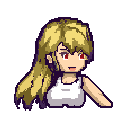
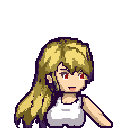
Added Fade in / Fade Out

diff --git a/Alligrater/Stage/Story/StoryStage.js b/Alligrater/Stage/Story/StoryStage.js
@@ -28,6 +28,10 @@ class StoryStage extends GenericStage{
 
         this.inputTime = 0;
         this.disableInputTime = 0;
+
+        this.fadeInOutVal = 0.00;
+        this.isFadingComplete = true;
+
     }
 
     setDisableInput(time){
@@ -37,6 +41,8 @@ class StoryStage extends GenericStage{
 
     setup(){
         this.dialogueBox = new DialogueBox(this.stage,CANVAS_WIDTH * 0.95, CANVAS_HEIGHT * 0.20, CANVAS_WIDTH/2, CANVAS_HEIGHT*0.85);
+        this.blackScreen = createBackgroundOnStage(this.stage, "Resources/Images/UI/PitchBlack.png");//We will use this later.
+        this.blackScreen.alpha = 0;
     }
 
     update(delta){
@@ -69,6 +75,23 @@ class StoryStage extends GenericStage{
         else{
             this.screenUnShake();
         }
+
+        if(!this.isFadingComplete){
+            //Keep this on top
+            this.stage.removeChild(this.blackScreen);
+            this.stage.addChild(this.blackScreen);
+
+            //Change opacity:
+            this.blackScreen.alpha += this.fadeInOutVal;
+            if(this.blackScreen.alpha > 1 || this.blackScreen.alpha < 0){
+                //Stop:
+                this.fadeInOutVal = 0;
+                this.isFadingComplete = true;
+            }
+
+
+        }
+
         //Unshake
         //this.screenUnShake();
     }
@@ -162,6 +185,12 @@ class StoryStage extends GenericStage{
 
     }
 
+    //+ = fade out
+    //- = fade in.
+    fadeBackground(speed){
+        this.isFadingComplete = false;
+        this.fadeInOutVal = speed;
+    }
+
 
 }
-

diff --git a/Alligrater/StorySubGame/DialogBox/DialogueBox.js b/Alligrater/StorySubGame/DialogBox/DialogueBox.js
@@ -123,9 +123,10 @@ class DialogueBox{
     setHeadFigure(path){
         this.clearHeadFigure();
         if(path != ""){
-            this.headfigure = createSpriteOnStage(this.stage,this.x - this.width/2.4, this.y - this.height/2.5, path)
+            this.headfigure = createSpriteOnStage(this.stage,this.x - this.width/2.4, this.y - this.height/1.5, path)
             scaleSprite(this.headfigure, 1.5*GLOBAL_SPRITE_SCALE)
         }
+        this.message.x = this.x - this.width/3.1;
 
     }
 
@@ -134,6 +135,8 @@ class DialogueBox{
             this.stage.removeChild(this.headfigure);
             this.headfigure = null;
         }
+        //Move the text to the left.
+        this.message.x = this.x - this.width/2.5;
     }
 
     showName(string){

diff --git a/Alligrater/SpriteManagement.js b/Alligrater/SpriteManagement.js
@@ -46,12 +46,11 @@ function loadSprites(){
         .add("Resources/Images/Characters/Master/master.json")
         .add("Resources/Images/Characters/Developer/developer.json")
         .add("Resources/Images/UI/DialogueBox_New.png")
-        //.add("Resources/Images/UI/Fonts/fonts.json")
-        .add("Resources/Images/UI/NewFonts/fonts.json")
         .add("Resources/Images/Characters/HeadFigure/Journalist.png")
         .add("Resources/Images/Characters/HeadFigure/Master.png")
         .add("Resources/Images/Characters/HeadFigure/Mechanic.png")
         .add("Resources/Images/Characters/HeadFigure/Robo.png")
+        .add("Resources/Images/UI/PitchBlack.png")
 
         .load(setupStage);
 }

diff --git a/Alligrater/StorySubGame/StageActions/StageSetupAction.js b/Alligrater/StorySubGame/StageActions/StageSetupAction.js
@@ -56,6 +56,8 @@ class StageSetupAction extends GenericStageAction{
 
         this.executeScreenShake();
 
+        this.executeFade();
+
         this.executeAudio();
 
         this.executeWait();
@@ -67,6 +69,14 @@ class StageSetupAction extends GenericStageAction{
             }
         }
 
+    }
+
+    executeFade(){
+        if(this.JSON.fade &&  this.JSON.fade!= 0){
+            //
+            //Better not set this to 0, or things could get nasty.
+            storystage.fadeBackground(this.JSON.fade);
+        }
     }
 
     executeWait(){

diff --git a/Alligrater/StorySubGame/Character/StageCharacter.js b/Alligrater/StorySubGame/Character/StageCharacter.js
@@ -46,7 +46,6 @@ class StageCharacter{
             this.character.animationSpeed = 0.05;
             this.playAnimation(0);
 
-
             this.character.onFrameChange = function(){
 
                 //Check if the current frame is within range:
